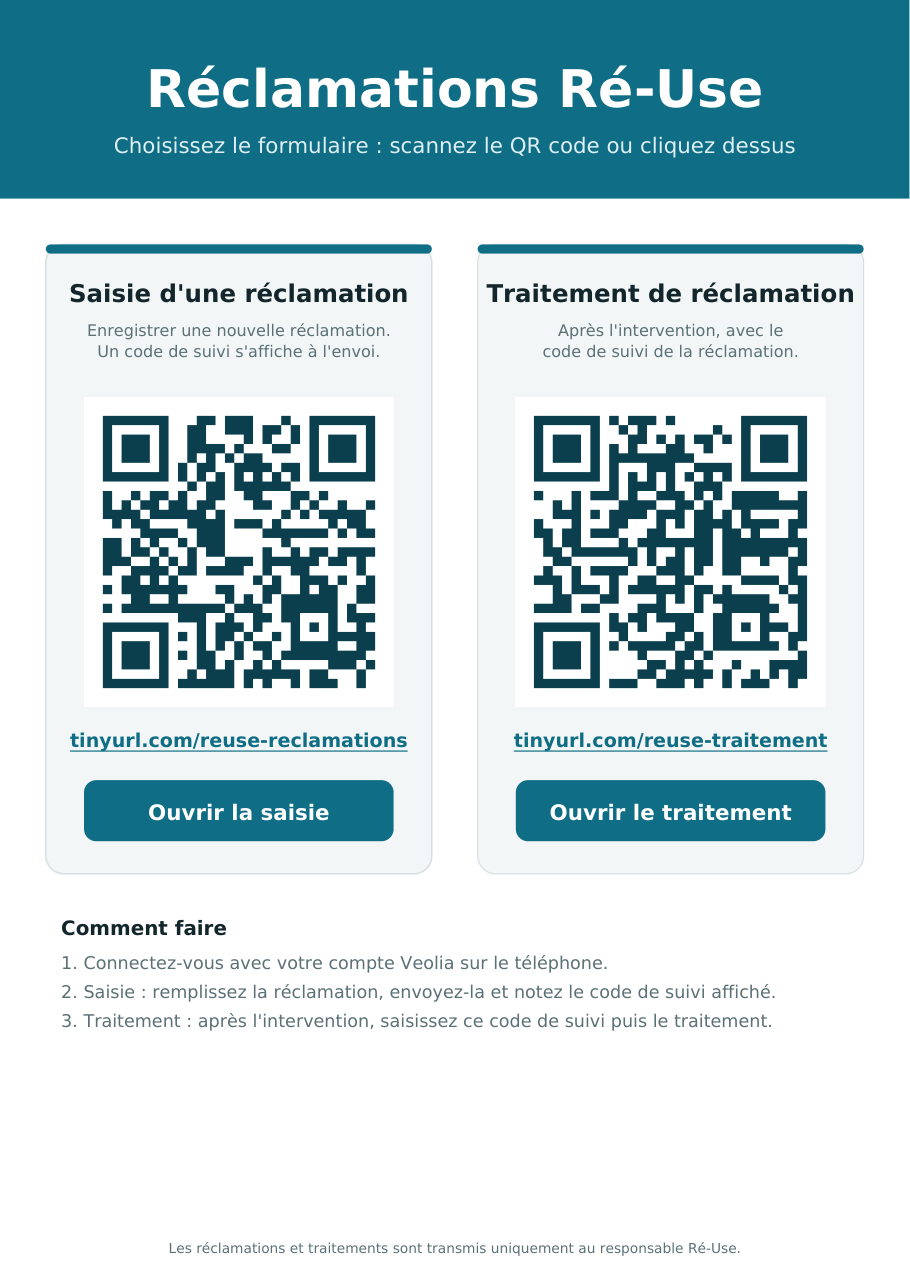
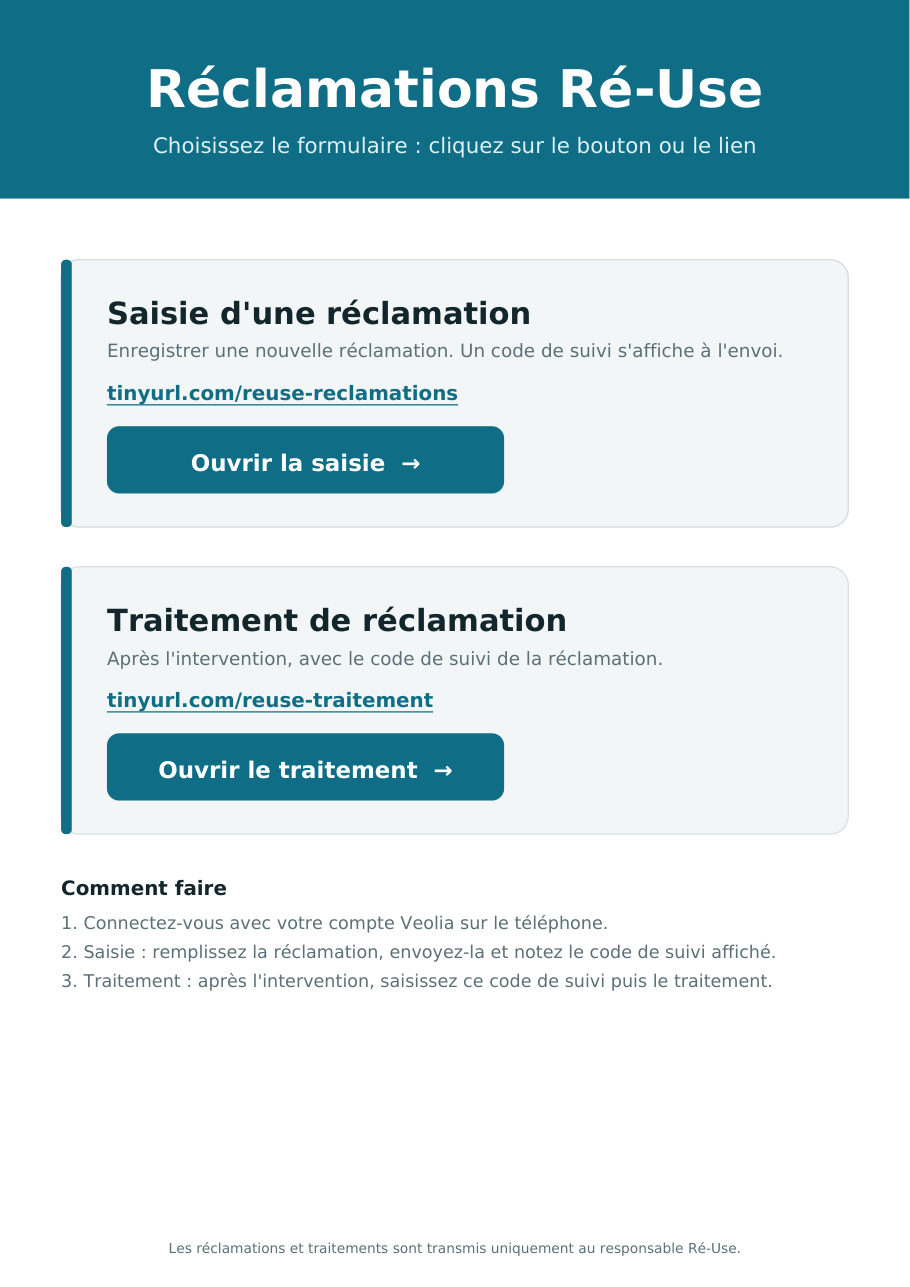
Fiche PDF sans QR code
Claude-Session: https://claude.ai/code/session_018Uqp8aMABzvEVAJBDtmASF

Changed region(s): [[0.0308, 0.1865, 0.9538, 0.6527], [0.0615, 0.6838, 0.8615, 0.8081], [0.1231, 0.0932, 0.8615, 0.1243]]

diff --git a/fiche.py b/fiche.py
@@ -1,20 +1,19 @@
 """Génère la fiche A4 des formulaires Ré-Use : un PDF cliquable (et une image PNG) avec les deux accès,
-« Saisie d'une réclamation » et « Traitement de réclamation », chacun avec son QR code, son lien et son bouton."""
-import qrcode, pymupdf
+« Saisie d'une réclamation » et « Traitement de réclamation », chacun avec son lien et son bouton cliquables."""
+import pymupdf
 from reportlab.lib.pagesizes import A4
 from reportlab.pdfgen import canvas
 from reportlab.pdfbase import pdfmetrics
 from reportlab.pdfbase.ttfonts import TTFont
 from reportlab.lib.colors import HexColor, white
-from reportlab.lib.utils import ImageReader
 
 ACCES = [
     dict(titre="Saisie d'une réclamation", url="https://tinyurl.com/reuse-reclamations",
          texte=["Enregistrer une nouvelle réclamation.", "Un code de suivi s'affiche à l'envoi."],
-         bouton="Ouvrir la saisie", qr="qr-code-seul.png"),
+         bouton="Ouvrir la saisie"),
     dict(titre="Traitement de réclamation", url="https://tinyurl.com/reuse-traitement",
          texte=["Après l'intervention, avec le", "code de suivi de la réclamation."],
-         bouton="Ouvrir le traitement", qr="qr-code-traitement.png"),
+         bouton="Ouvrir le traitement"),
 ]
 SORTIE = 'fiche-reclamations-reuse'
 
@@ -26,30 +25,24 @@ W, H = A4
 c = canvas.Canvas(SORTIE + '.pdf', pagesize=A4); c.setTitle('Réclamations Ré-Use')
 c.setFillColor(teal); c.rect(0, H-130, W, 130, stroke=0, fill=1)
 c.setFillColor(white); c.setFont('B', 34); c.drawCentredString(W/2, H-70, 'Réclamations Ré-Use')
-c.setFont('R', 14); c.setFillColor(HexColor('#dff1f5')); c.drawCentredString(W/2, H-100, 'Choisissez le formulaire : scannez le QR code ou cliquez dessus')
+c.setFont('R', 14); c.setFillColor(HexColor('#dff1f5')); c.drawCentredString(W/2, H-100, 'Choisissez le formulaire : cliquez sur le bouton ou le lien')
 
-colw = (W - 3*30) / 2; top = H - 160; boxh = 412
+boxw = W - 80; boxh = 175; gap = 26; top = H - 170
 for i, a in enumerate(ACCES):
-    x0 = 30 + i*(colw + 30)
-    c.setFillColor(soft); c.setStrokeColor(line); c.roundRect(x0, top-boxh, colw, boxh, 12, stroke=1, fill=1)
-    c.setFillColor(teal); c.roundRect(x0, top-6, colw, 6, 3, stroke=0, fill=1)
-    c.setFillColor(ink); c.setFont('B', 16); c.drawCentredString(x0+colw/2, top-38, a['titre'])
-    c.setFillColor(muted); c.setFont('R', 10.5)
-    for j, l in enumerate(a['texte']):
-        c.drawCentredString(x0+colw/2, top-60-j*14, l)
-    q = qrcode.QRCode(error_correction=qrcode.constants.ERROR_CORRECT_M, box_size=20, border=2); q.add_data(a['url']); q.make(fit=True)
-    img = q.make_image(fill_color="#0b3f4d", back_color="white").convert("RGB"); img.save(a['qr'])
-    s = colw - 50; qx = x0 + 25; qy = top - 100 - s
-    c.drawImage(ImageReader(img), qx, qy, s, s); c.linkURL(a['url'], (qx, qy, qx+s, qy+s), relative=0)
+    x0 = 40; y0 = top - i*(boxh + gap)
+    c.setFillColor(soft); c.setStrokeColor(line); c.roundRect(x0, y0-boxh, boxw, boxh, 12, stroke=1, fill=1)
+    c.setFillColor(teal); c.roundRect(x0, y0-boxh, 7, boxh, 3, stroke=0, fill=1)
+    c.setFillColor(ink); c.setFont('B', 20); c.drawString(x0+30, y0-42, a['titre'])
+    c.setFillColor(muted); c.setFont('R', 12); c.drawString(x0+30, y0-64, ' '.join(a['texte']))
     show = a['url'].replace('https://', '')
-    c.setFillColor(teal); c.setFont('B', 12.5); tw = c.stringWidth(show, 'B', 12.5); ty = qy - 26
-    c.drawCentredString(x0+colw/2, ty, show)
-    c.setStrokeColor(teal); c.setLineWidth(0.8); c.line(x0+colw/2-tw/2, ty-3, x0+colw/2+tw/2, ty-3)
-    c.linkURL(a['url'], (x0+colw/2-tw/2, ty-5, x0+colw/2+tw/2, ty+12), relative=0)
-    bw, bh = colw - 50, 40; bx = x0 + 25; by = ty - 62
+    c.setFillColor(teal); c.setFont('B', 13); tw = c.stringWidth(show, 'B', 13); ty = y0 - 92
+    c.drawString(x0+30, ty, show); c.setStrokeColor(teal); c.setLineWidth(0.8); c.line(x0+30, ty-3, x0+30+tw, ty-3)
+    c.linkURL(a['url'], (x0+30, ty-5, x0+30+tw, ty+13), relative=0)
+    bw, bh = 260, 44; bx = x0 + 30; by = y0 - boxh + 22
     c.setFillColor(teal); c.roundRect(bx, by, bw, bh, 8, stroke=0, fill=1)
-    c.setFillColor(white); c.setFont('B', 14); c.drawCentredString(x0+colw/2, by+14, a['bouton'])
+    c.setFillColor(white); c.setFont('B', 15); c.drawCentredString(bx+bw/2, by+15, a['bouton'] + '  →')
     c.linkURL(a['url'], (bx, by, bx+bw, by+bh), relative=0)
+boxh = 2*boxh + gap
 
 c.setFillColor(ink); c.setFont('B', 13); y = top - boxh - 40; c.drawString(40, y, 'Comment faire')
 c.setFont('R', 11.5); c.setFillColor(muted)
